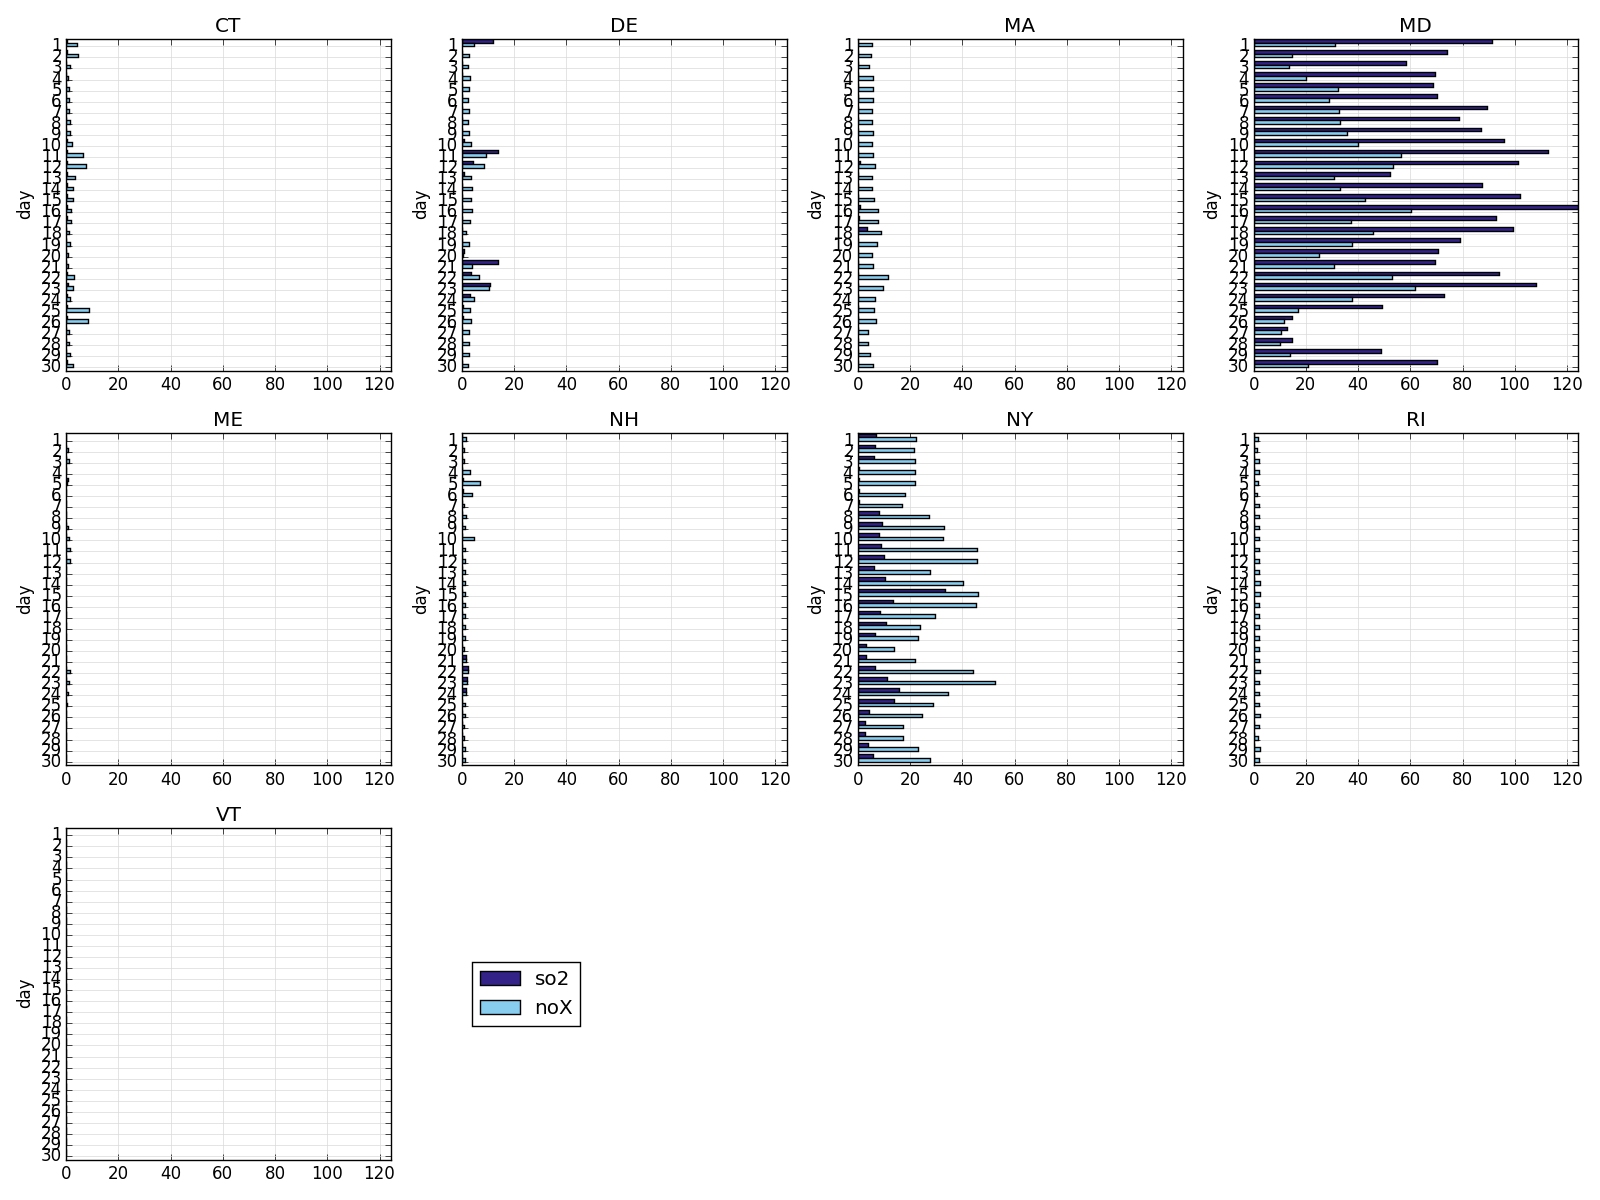
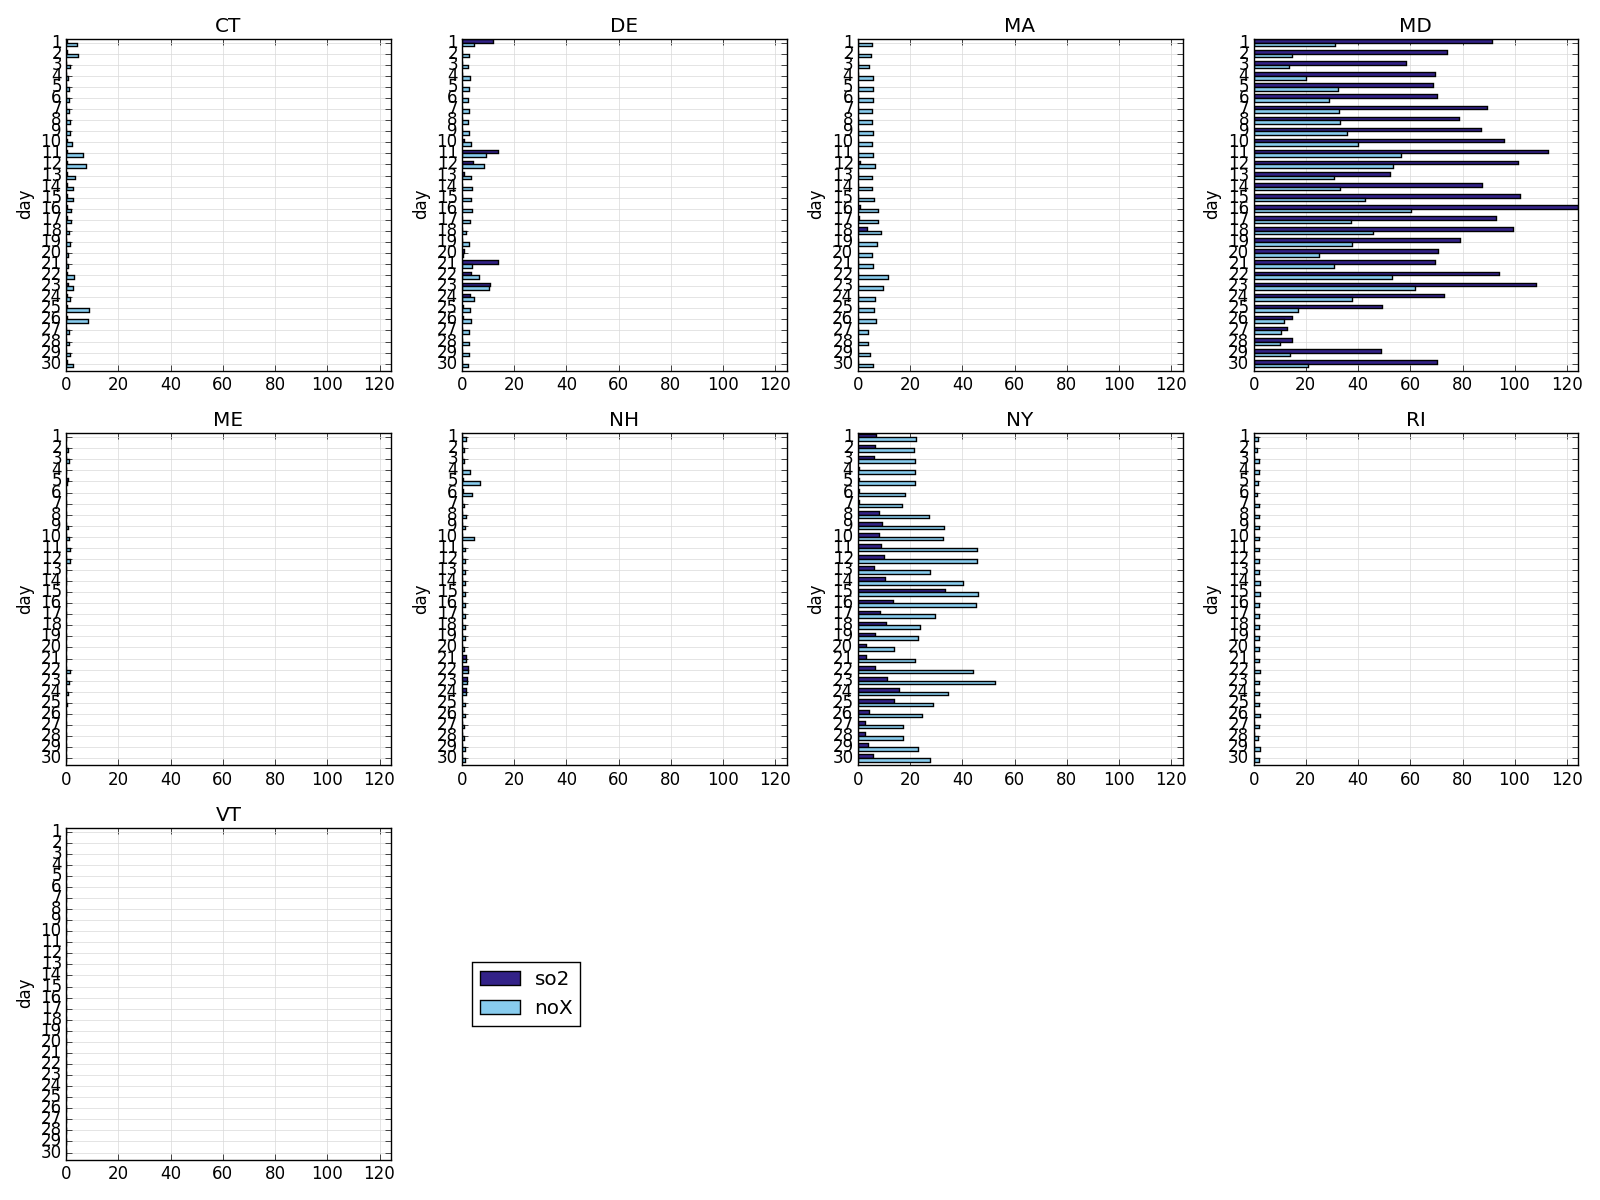
Fit bar and column axis labels better.

diff --git a/samples.py b/samples.py
@@ -27,6 +27,12 @@ emissions = emissions.compute([
 ])
 
 states = emissions.group_by('State')
+state_totals = states.aggregate([
+    ('so2', agate.Sum(), 'so2'),
+    ('co2', agate.Sum(), 'co2'),
+    ('noX', agate.Sum(), 'noX')
+])
+
 new_york = states['NY']
 
 # NB: key_type shouldn't be necessary--agate bug #234
@@ -47,9 +53,9 @@ date_totals = dates.aggregate([
 print 'Simple charts'
 
 day_totals.line_chart('day', 'co2', filename=os.path.join(OUTPUT_DIR, 'line_chart_simple.png'))
-day_totals.column_chart('day', 'co2', filename=os.path.join(OUTPUT_DIR, 'column_chart_simple.png'))
-day_totals.bar_chart('day', 'co2', filename=os.path.join(OUTPUT_DIR, 'bar_chart_simple.png'))
-day_totals.scatter_chart('day', 'co2', filename=os.path.join(OUTPUT_DIR, 'scatter_chart.png'))
+state_totals.column_chart('State', 'co2', filename=os.path.join(OUTPUT_DIR, 'column_chart_simple.png'))
+state_totals.bar_chart('State', 'co2', filename=os.path.join(OUTPUT_DIR, 'bar_chart_simple.png'))
+day_totals.scatter_chart('so2', 'noX', filename=os.path.join(OUTPUT_DIR, 'scatter_chart.png'))
 
 print 'Time series'
 
@@ -60,15 +66,15 @@ date_totals.bar_chart(' Date', 'co2', filename=os.path.join(OUTPUT_DIR, 'bar_cha
 print 'Multiple series'
 
 day_totals.line_chart('day', ['so2', 'noX'], filename=os.path.join(OUTPUT_DIR, 'line_chart_complex.png'))
-day_totals.column_chart('day', ['so2', 'noX'], filename=os.path.join(OUTPUT_DIR, 'column_chart_complex.png'))
-day_totals.bar_chart('day', ['so2', 'noX'], filename=os.path.join(OUTPUT_DIR, 'bar_chart_complex.png'))
+state_totals.column_chart('State', ['so2', 'noX'], filename=os.path.join(OUTPUT_DIR, 'column_chart_complex.png'))
+state_totals.bar_chart('State', ['so2', 'noX'], filename=os.path.join(OUTPUT_DIR, 'bar_chart_complex.png'))
 
 print 'Small multiples'
 
 states.line_chart('day', 'co2', filename=os.path.join(OUTPUT_DIR, 'line_chart_simple_multiples.png'))
 states.column_chart('day', 'co2', filename=os.path.join(OUTPUT_DIR, 'column_chart_simple_multiples.png'))
 states.bar_chart('day', 'co2', filename=os.path.join(OUTPUT_DIR, 'bar_chart_simple_multiples.png'))
-states.scatter_chart('day', 'co2', filename=os.path.join(OUTPUT_DIR, 'scatter_chart_multiples.png'))
+states.scatter_chart('so2', 'noX', filename=os.path.join(OUTPUT_DIR, 'scatter_chart_multiples.png'))
 
 print 'Small multiples with multiple series'
 

diff --git a/agatecharts/charts/columns.py b/agatecharts/charts/columns.py
@@ -37,7 +37,8 @@ class Columns(Chart):
         positions = range(len(label_column))
         colors = Qualitative()
         legend_bars = []
-        bar_width = 0.65 / len(self._value_column_names)
+        bar_area = 0.65
+        bar_width = bar_area / len(self._value_column_names)
 
         for i, value_column_name in enumerate(self._value_column_names):
             value_column = table.columns[value_column_name]
@@ -48,7 +49,7 @@ class Columns(Chart):
             series_positions = []
 
             for j in positions:
-                series_positions.append(positions[j] + (i + 1) * bar_width)
+                series_positions.append(positions[j] + (i * bar_width))
 
             plot_bars = axes.bar(
                 series_positions,
@@ -61,7 +62,7 @@ class Columns(Chart):
             legend_bars.append(plot_bars[0])
 
         axes.set_xlabel(self._label_column_name)
-        axes.set_xticks(series_positions)
+        axes.set_xticks([p + (bar_area / 2) for p in positions])
         axes.set_xticklabels(table.columns[self._label_column_name])
 
         if len(self._value_column_names) == 1:

diff --git a/agatecharts/charts/bars.py b/agatecharts/charts/bars.py
@@ -38,7 +38,8 @@ class Bars(Chart):
         positions = range(len(label_column))
         colors = Qualitative()
         legend_bars = []
-        bar_height = 0.65 / len(self._value_column_names)
+        bar_area = 0.65
+        bar_height = bar_area / len(self._value_column_names)
 
         # Display first value at the top of the chart.
         positions.reverse()
@@ -65,7 +66,7 @@ class Bars(Chart):
             legend_bars.append(plot_bars[0])
 
         axes.set_ylabel(self._label_column_name)
-        axes.set_yticks(series_positions)
+        axes.set_yticks([p + (series_count - i) * bar_height + (bar_area / 2) for p in positions])
         axes.set_yticklabels(table.columns[self._label_column_name])
 
         if len(self._value_column_names) == 1:

diff --git a/agatecharts/tableset.py b/agatecharts/tableset.py
@@ -68,10 +68,10 @@ class TableSetCharts(object):
         pyplot.figure(figsize=size, dpi=dpi)
 
         # Compute max domain of all tables so they can be placed on the same axes
-        x_min = 0
-        x_max = 0
-        y_min = 0
-        y_max = 0
+        x_min = float('inf')
+        x_max = float('-inf')
+        y_min = float('inf')
+        y_max = float('-inf')
 
         for table in self.values():
             table_x_min, table_x_max = chart.get_x_domain(table)
